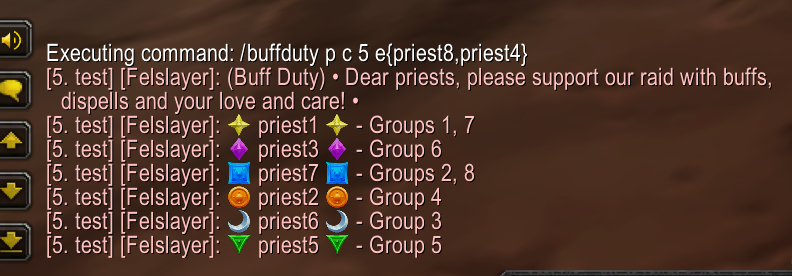
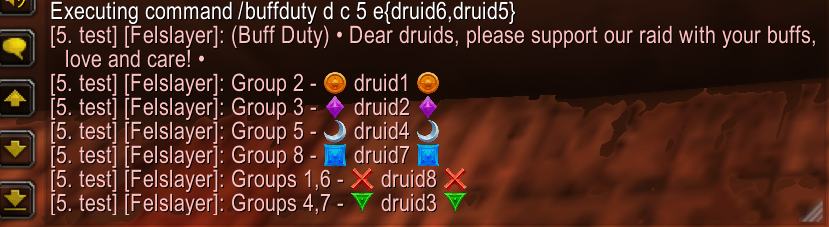
Implemented persisting of players assignments between invocations. (#7)
* Implemented persisting of players assignments between invocations.

* Added cache to save assignments for same players.
* Moved some service functions to separate file - utils.lua

* * Added AceDB-3.0 to use persistence between UI reloads
* Moved checks for insufficient players to core to achieve consistent behavior for getDutiesTable for case when there are no players to do buff duty.
* Implemented proper caching between UI reload based on hash:
<number_of_groups_in_raid>:[list_of_all_buffing_players.Comma_separated]
* Changed buffduty output message to format `group# - player` so that it can be easier sorted.
* Added sorting for output messages
* Implemented tests for Cache
* Updated Readme to reflect the latest changes of addon logic

* Readme slight fixes

diff --git a/README.md b/README.md
@@ -12,7 +12,7 @@ Mod functionality is available through a simple command
 
 It also supports command line arguments in the following format:
 
-```/buffduty [class argument] [channel type arg] [channel name arg]```
+```/buffduty [class argument] [channel type] [(optional)channel name] [(optional)excluded players] [(optional)ordered players] ```
 
 * class argument(`case insensitive`) - Specifies class for which BuffDuty is executed.
     * "m" or "mage" - message will be generated for mages
@@ -26,9 +26,9 @@ It also supports command line arguments in the following format:
 * channel name argument(`case insensitive`, `optional`) - Specifies the channel name for custom channel. Only applicable for *custom channel type*, for other channel types will be ignored.
     * *specify your channel name or number* - provide a channel where you want the message to be posted. E.g. "3", "pvp3", "ACMEGuidHeal"
 * excluded players argument(`case insensitive`, `optional`) - Excluding players from buffduty.
-    * *`e{<player1>,<player2>,..}`* - provide a list of players you want to exclude from BuffDuty. Please note that players are **comma separated**, no spaces in between. E.g. `e{putris,spaceBag}`.
+    * *`e{player1,player2,..}`* - provide a list of players you want to exclude from BuffDuty. Please note that players are **comma separated**, no spaces in between. E.g. `e{putris,spaceBag}`.
 * ordered players argument(`case insensitive`, `optional`) - additional responsibilities list, similar to exclude, to allow additional duties for priority players. Players specified in this list are likely to get additional buffing duties.
-    * *`o{<player3>,<player5>,..}`* - provide a list of players you want to give priority during assignment. Please note that players are **comma separated**, no spaces in between. E.g. `o{putris,spaceBag}`.
+    * *`o{player3,player5,..}`* - provide a list of players you want to give priority during assignment. Please note that players are **comma separated**, no spaces in between. E.g. `o{putris,spaceBag}`.
   
 
 _Hint_
@@ -39,21 +39,27 @@ The way we currently using it - is we create a custom macro with this command an
 `/buffduty druid w` - will send BuffDuty message for *druid* class in private message for each druid  
 `/buffduty priest w e{Putris,cassi}` - will send BuffDuty message for *druid* class in private message for each druid. It will exclude players "Putris" and "John" from BuffDuty.  
 `/buffduty druid c 5 e{cuernoloco,Xako}` - will send BuffDuty message for *druid* class in a *custom* channel number *5* in player's chats. It will exclude players "Putris" and "John" from BuffDuty.
-`/buffduty druid c 5 e{cuernoloco,Xako} o{Ryuken,Dimmi,Sentry}` - will send BuffDuty message for *druid* class in a *custom* channel number *5* in player's chats. It will exclude players "Putris" and "John" from BuffDuty. It will prioritise Ryuken, Dimmi, and Sentry for additional buffing duties(like receive 2nd group to look after).
+`/buffduty druid c 5 e{cuernoloco,Xako} o{Ryuken,Dimmi,Sentry}` - will send BuffDuty message for *druid* class in a *custom* channel number *5* in player's chats. It will exclude players "Putris" and "John" from BuffDuty. It will prioritise Ryuken, Dimmi, and Sentry for additional buffing duties(like receive 2nd group to look after).  
 ![Example1](/docs/example1.png "Example for custom channel")  
 ![Example2](/docs/example2.png "Example usage for say channel")
 
 How does it work?
 -----------------
 Buff Duty performs best when it works in a raid group of ~40 people with ~8 people that represent the class that buffs/dispells. 
-Addon gathers information about the number of number of said people in the raid and, based on that, posts a message that informs which player is responsible for a specific raid group.
+Addon gathers information about the number of said people in the raid and, based on that, posts a message that informs which player is responsible for a specific raid group.
+The duties are saved between UI reload(WOW relog, exit, etc).
+They are persisted based on cache: `N:player1,player2,player3`, where *N* - number of groups in current raid, 
+*player1,player2...* - resulting buffing player's(appropriate class, not excluded) names sorted in alphabetic order.
+You might be interested in that if assignments are not being updated for a long time. If that is the case, please do not 
+hesitate to reach BuffDuty creators.
 
 Some edge cases:
 
-  * If the raid group does not have any player with specific class, it posts a message saying that no players are available for buffing.
-  * If there is only 1 buffing player in a raid group, BuffDuty informs that only this player will do the buffing.
-  * For cases when there are between 2 and 7 buffing players in a raid, groups are assigned in a consecutive fashion e.g. "Player1 - Groups 1,2,3"
-  * When there are 8 and more buffing players in a raid - groups are properly assigned to first 8 players in a fashion "Player5 - Group 5"
+  * If there are *less then 10 players* in raid, it posts a message that it makes no sense to do buff assignments.
+  * If the raid group *does not have any buffing player* of specific class, it posts a message saying that no players are available for buffing.
+  * If there is *only 1 buffing player* in a raid group, BuffDuty informs that only this player will do the buffing.
+  * For cases when there are *between 2 and 7 buffing players* in a raid, groups are assigned in a consecutive fashion e.g. "Player1 - Groups 1,2,3".
+  * When there are *8 and more buffing players* in a raid - groups are properly assigned to first 8 players in a fashion "Player5 - Group 5".
 
 
 Background

diff --git a/CHANGELOG.md b/CHANGELOG.md
@@ -1,3 +1,16 @@
+## [1.4.0] - 2020-04-01 ##
+### Implemented preserving player assignments
+
+### Added ###
+  * Implemented persisting player assignments between calls.
+   If the buffing players remain the same(regardless of their order in groups),
+   group assignments would not change.
+  * Added caching of assignments for same calls.
+  
+### Changed ###
+  * Changed the BuffDuty message output format. It is now `Group x - {symbol}PlayerName{symbol}`.
+  * Updated Readme to reflect the latest changes of addon logic.
+
 ## [1.3.2] - 2020-03-16 ##
 ### Fix title for addon that prevents it from showing properly.
 
